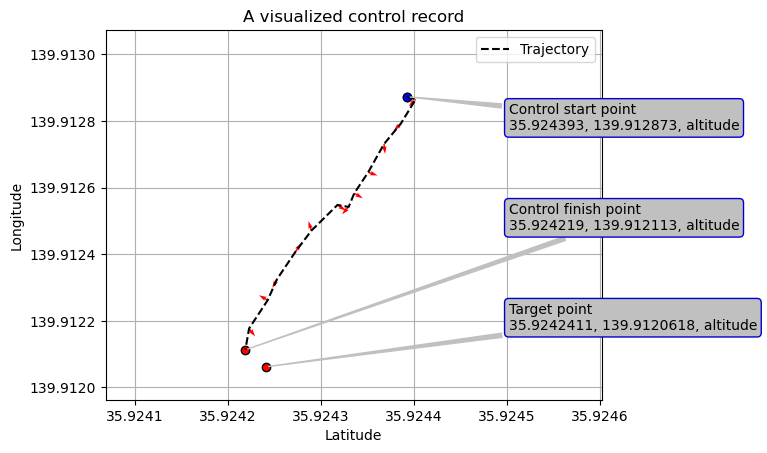
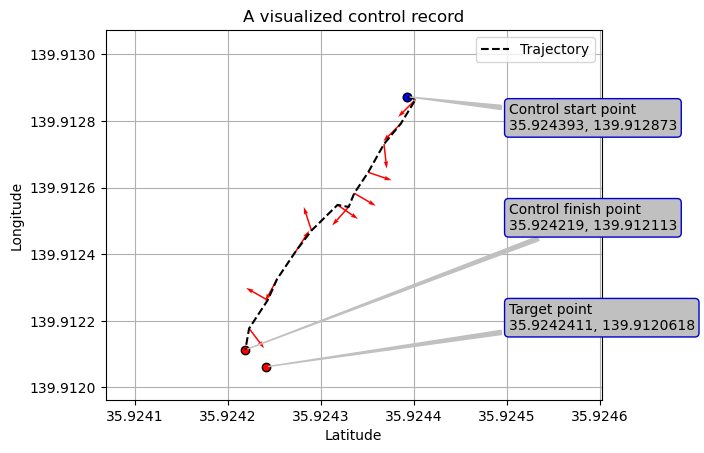
a

diff --git a/beta_get_map.py b/beta_get_map.py
@@ -52,7 +52,7 @@ def get_map(file_path, lat_goal, lon_goal):
 
         #座標のプロット
         plt.scatter(gps_lat[0], gps_lon[0], color="blue")
-        plt.quiver(gps_lat, gps_lon, cos_azimuth_array, sin_azimuth_array, color="red", width=0.003, edgecolor="black", scale=50)
+        plt.quiver(gps_lat, gps_lon, cos_azimuth_array, sin_azimuth_array, color="red", width=0.003, edgecolor="black", scale=20)
         plt.plot(gps_lat, gps_lon, label="Trajectory", linestyle="dashed", color="black")
         
         #スタート地点、ゴール地点、制御終了地点の座標の表示
@@ -63,9 +63,9 @@ def get_map(file_path, lat_goal, lon_goal):
         #地図の情報を表示
         arrow_dict = dict(arrowstyle="wedge", color="silver", connectionstyle="arc3")
         text_dict = text_dict = dict(boxstyle="round",fc="silver", ec="mediumblue")
-        plt.annotate("Target point" + "\n" + str(lat_goal) + ", "+ str(lon_goal) + ", "+ "altitude", xy=(lat_goal, lon_goal), xytext=(lim_x2 - 0.000100, lim_y2 - 0.000900), arrowprops=arrow_dict, bbox=text_dict)
-        plt.annotate("Control start point" + "\n" + str(gps_lat[0]) + ", "+ str(gps_lon[0]) + ", "+ "altitude", xy=(gps_lat[0], gps_lon[0]), xytext=(lim_x2 - 0.000100, lim_y2 - 0.000300), arrowprops=arrow_dict, bbox=text_dict)
-        plt.annotate("Control finish point" + "\n" + str(gps_lat[-1]) + ", "+ str(gps_lon[-1]) + ", "+ "altitude", xy=(gps_lat[-1], gps_lon[-1]), xytext=(lim_x2 - 0.000100, lim_y2 - 0.000600), arrowprops=arrow_dict, bbox=text_dict)
+        plt.annotate("Target point" + "\n" + str(lat_goal) + ", "+ str(lon_goal), xy=(lat_goal, lon_goal), xytext=(lim_x2 - 0.000100, lim_y2 - 0.000900), arrowprops=arrow_dict, bbox=text_dict)
+        plt.annotate("Control start point" + "\n" + str(gps_lat[0]) + ", "+ str(gps_lon[0]), xy=(gps_lat[0], gps_lon[0]), xytext=(lim_x2 - 0.000100, lim_y2 - 0.000300), arrowprops=arrow_dict, bbox=text_dict)
+        plt.annotate("Control finish point" + "\n" + str(gps_lat[-1]) + ", "+ str(gps_lon[-1]), xy=(gps_lat[-1], gps_lon[-1]), xytext=(lim_x2 - 0.000100, lim_y2 - 0.000600), arrowprops=arrow_dict, bbox=text_dict)
         
         #グリッドの表示
         plt.grid()
